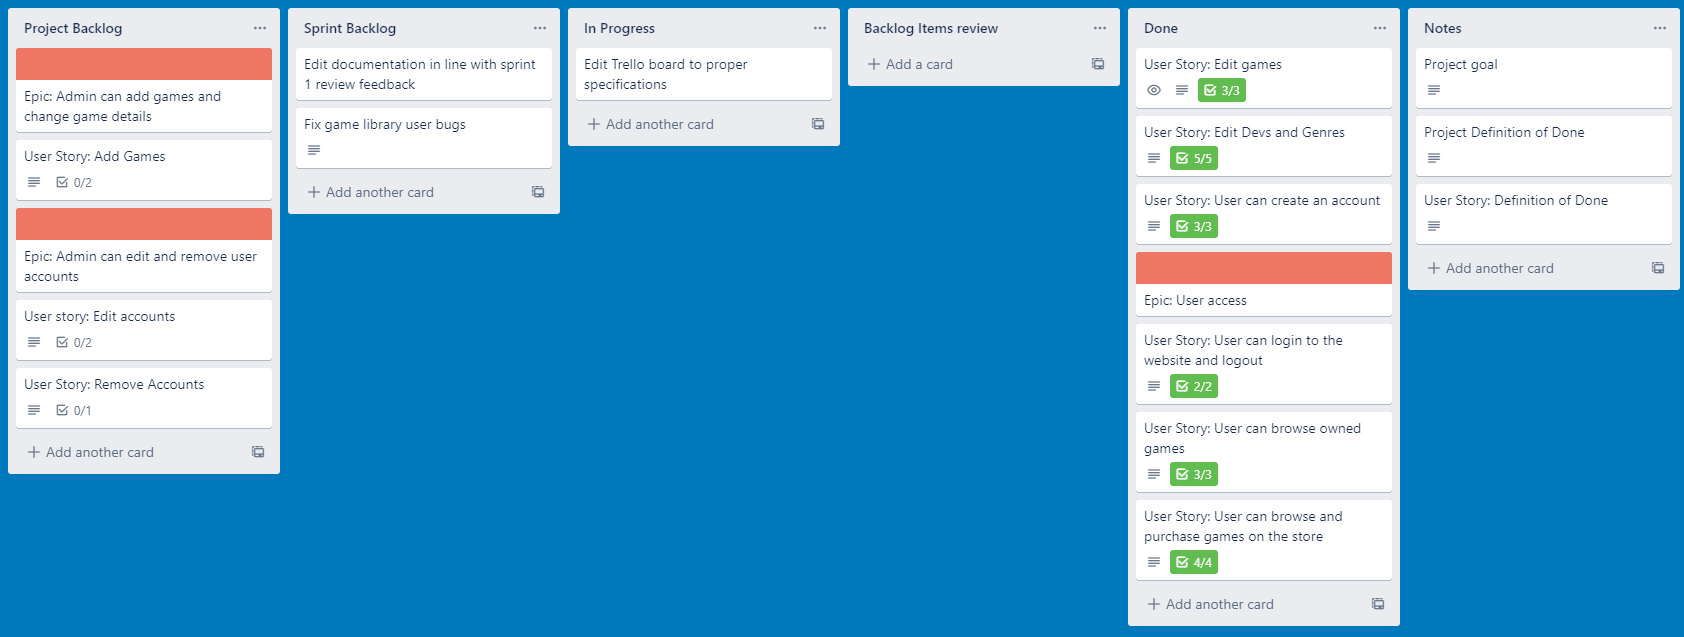
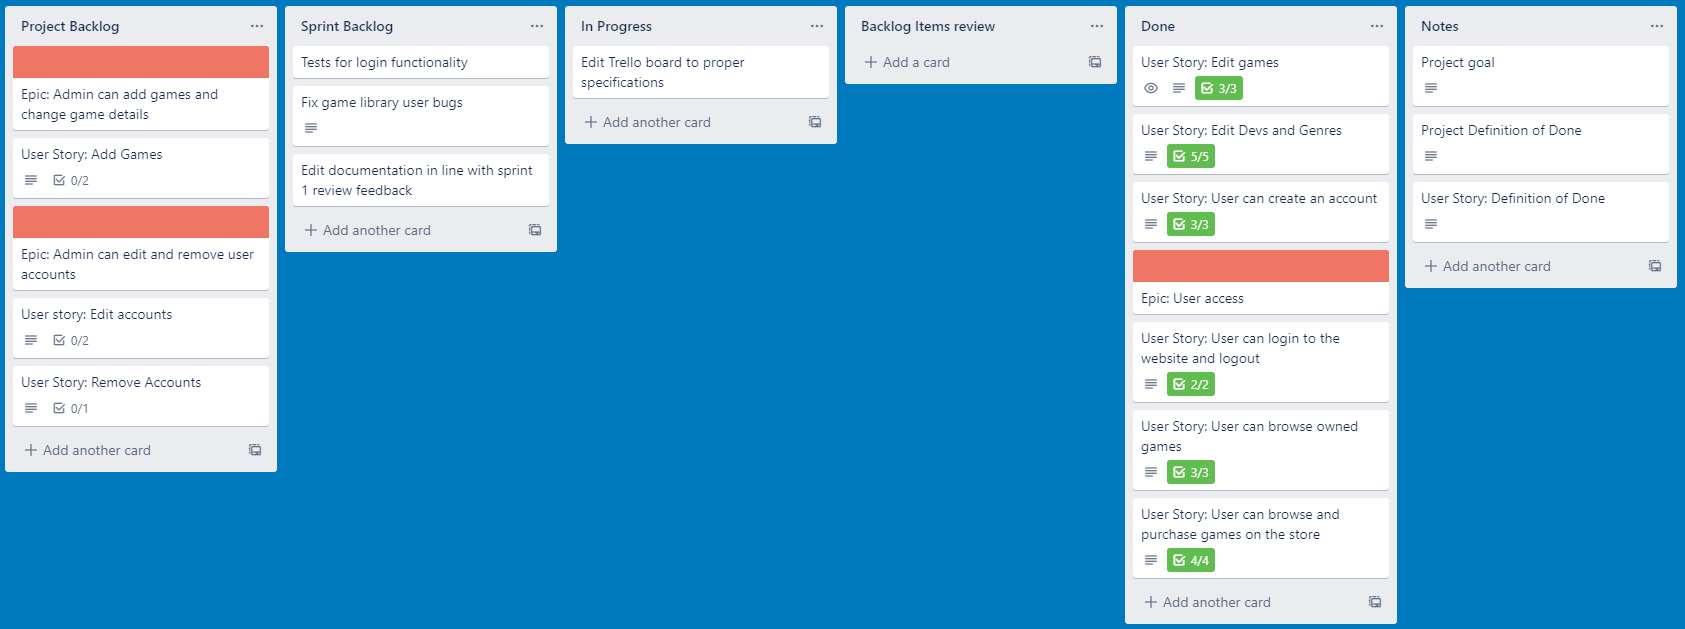
added readme changes

Changed region(s): [[0.0, 0.0, 1.0, 0.9968]]

diff --git a/README.md b/README.md
@@ -6,37 +6,51 @@ The goal for my 3-tier application is to create a games marketplace where a user
 Additionally, an admin will be able to login to create new game entries for the store, as well as editing and delete current entries, as well as having some power to view and change registered accounts.
 
 #### Definition of done:
+- CRUD Method are working as intended
+- Unit tests for functionality are created and pass
+- Required documentation is up to date
+- GUI is tested an works as intended
 
-Each task and user story added to the trello board is considered done when the code has been successfully implemented, tests has been run on it successfully and been approved in review.
+#### Output of Sprint Review:
+- User could successfully browse signup, login, library and store pages
+- User could browse through the selection of games and purchase a game to add to their library
+- Admin could make changes to all the different details of each game
+- Admin could make changes to the list of available developers and genres
 
+#### Sprint 2 Goal:
 
-#### Sprint Goal:
-
-My goal for this sprint is to edit the documentation up to a higher standard and to include all the information neccessary, as well edit my trello board it reflects what is expected of the board
+- Update documentation to meet feedback 
+- Edit trello board to correct board format and to include correct items
+- Fix bugs present in correct user being logged in for login system
+- Create tests for login system to make sure it works correctly
 
 #### Project Retrospective:
 
-##### What could have gone better:
+#### What I have learned:
+-	I learned a lot about the functionality Entity Framework and WPF, and how to use them in conjunction with one another.
+-   Learned about how to use a kanban board to organise all elements that are involved in the sprint
+-   Learned about some differences of using model first vs database first frameworks.
+-   Gained experience in designing relationships between database effectively.
+
+#### Next time I would:
+- Before I start constructing my database, decide whether database or model first would be better for my project and make sure that is correct so there is no need to change.
+- Create my user stories at the beginning of project before I began coding the features needed.
+- Make sure I take into account the definition of done when constructing the user stories and the features.
+
+#### Sprint Retrospective
+
+##### What could be better:
 -	Learning how to use WPF to implement my features took longer than I expected.
 -	I sometimes spent too much time trying to get a feature working in a particular way which did not work.
 -	Many of the features (e.g., setting game price) do not have features that handle exceptions from invalid values being added.
 -	I started with more complex features, causing me to spend a lot of time trying to get those working before I realised, I should start on the simpler features and get those done first, so I do not end up wasting too much time on the areas I struggle on and not leaving enough time for the simpler tasks.
 -	I started with model first but found I struggle to work with join tables with model first, and so restarted to implement database first which took additional time away from development.
-
-#### Sprint Retrospective
-
-##### What could be better:
--	A wallet function so users could add money to their wallet and only purchase games when they have enough money in their wallet.
--	Add a filter system for the store/library that allows the user to display games of certain genres.
--	Add a search bar that allows the user/admin to type in and see the game they search for
--	Enable the admin page to be only accessible by special admin accounts.
--	The application does not have much functionality other than allowing the user to purchase and view games.
 -	Trello board was not utilised or organised correctly for sprint 1.
 
 ##### What went well:
 -	I believe the functionality I have put in successfully works clearly and well.
 -	I was able to finish a majority of the most important functionality.
--	I learned a lot about the functionality Entity Framework and WPF, and how to use them in conjunction with one another.
+-	Switching from model first to database first for my project helped understand how to move forward with my project.
 
 ##### Action Plan:
 -	Add other types of tasks to the sprint backlog (e.g. big fixing) other than user stories.
@@ -60,5 +74,7 @@ My goal for this sprint is to edit the documentation up to a higher standard and
 
 #### Class Diagram:
 ![class diagram](./Images/classDiagram2.png)
+
+Genre and Developer are connected to the game class using join tables to avoid having a direct many to many relationship between the tables
 
 [Link to Trello board](https://trello.com/b/ieQGAace/3-layer-project)
